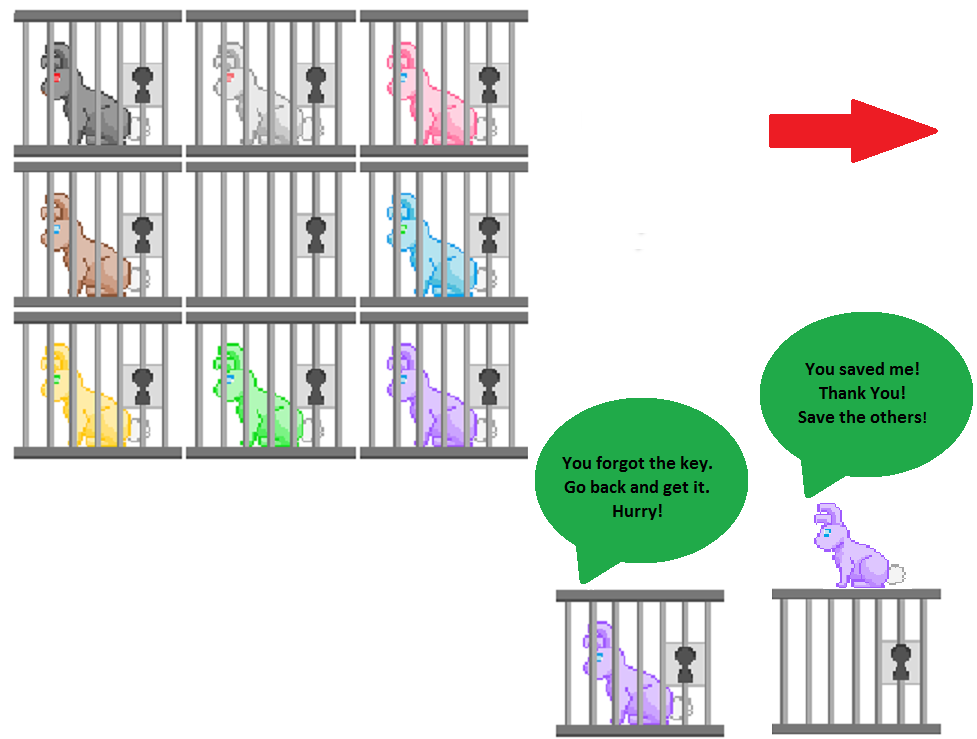
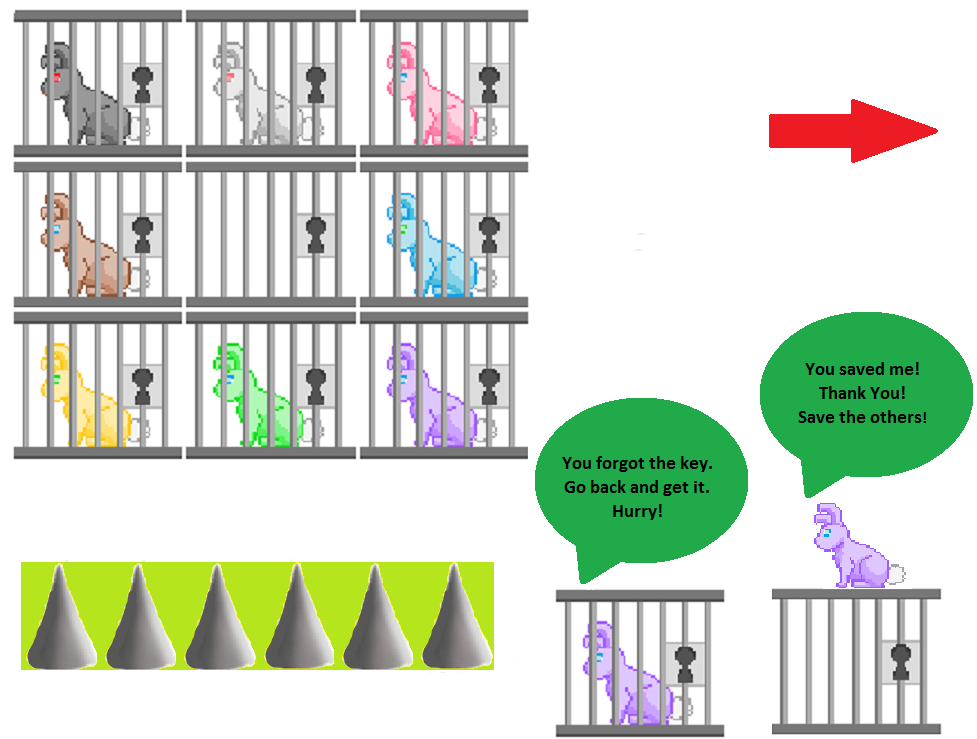
lost

Changed region(s): [[0.0, 0.747, 0.522, 0.9337]]

diff --git a/Main_Game.py b/Main_Game.py
@@ -7,6 +7,7 @@ from Level_1 import level_one
 from Level_2 import level_two
 import Constants
 import Level_2
+from Constants import game_over, BLACK
  
 
 # Define some colors 
@@ -69,7 +70,9 @@ def main():
     text6 = font.render("<-BACK", True, RED)
     text7 = font2.render("DIFFICULTY", True, RED)
     text11 = font2.render("Exit", True, RED)
-        
+    COLOR4 = RED
+    COLOR5 = RED
+    COLOR6 = RED   
    
     # cursor picture
     
@@ -106,7 +109,7 @@ def main():
     # Parent while loop
     while not really_done:
         
-        print(Constants.level)
+        
         # child loop containing loading screen!
         while screen_view == 0 and done == False:
             for event in pygame.event.get(): 
@@ -136,7 +139,7 @@ def main():
             clock.tick(frame_rate)            
             
         # child while loop, containing menu!
-        while screen_view == 1 and done == False:
+        while screen_view == 1 and done == False :
             for event in pygame.event.get(): 
                 if event.type == pygame.QUIT:
                     done = True 
@@ -144,26 +147,30 @@ def main():
                 # Do they hit the bottons and change mouse anamation
                 elif event.type == pygame.MOUSEBUTTONDOWN:                   
                     if mouse_x >= 399 and mouse_x <= 917 and mouse_y >= 325 and mouse_y <= 416:
-                        print("game") 
-                        while (Constants.level == 1):
+                        print("game")
+                         
+                        while (Constants.level == 1) and Constants.game_over == False:
                             level_one(color)
-                        while (Constants.level == 2):
+                           
+                            print(Constants.game_over)
+                            
+                        while (Constants.level == 2) and Constants.game_over == False:
                             Platform.platform_move_x = 0 
                             Caged_Bunny.Cage_move_x = 0 
                             Key.key_move_x = 0 
+                            print(Constants.game_over)
                             level_two(color)  
-                        while (Constants.level == 3):
+                           
+                            
+                        while (Constants.level == 3) and Constants.game_over == False:
                             Platform.platform_move_x = 0 
                             Caged_Bunny.Cage_move_x = 0 
                             Key.key_move_x = 0 
+                            print(Constants.game_over)
                             level_two(color)
-                        while(Constants.level == 4):
-                            pygame.quit()
-                    elif mouse_x >= 398 and mouse_x <= 649 and mouse_y >= 574 and mouse_y <= 666:
-                        print("got it load")
-                        color2 = WHITE 
-                        screen_view = 3
-                        (399, 575, 250, 91)
+                            
+
+                        
                     elif mouse_x >= 398 and mouse_x <= 889 and mouse_y >= 450 and mouse_y <= 541:
                         print("and again setting")
                         color3 = GREEN
@@ -181,7 +188,7 @@ def main():
             total_seconds = frame_count // frame_rate
             minutes = total_seconds // 60
             seconds = total_seconds % 60
-            print(seconds)
+            
             frame_count += 1
             # Creat Buttons
             screen.blit(title, [250, 100])            
@@ -206,51 +213,7 @@ def main():
             # Limit to 20 frames per second
             clock.tick(frame_rate)
 
-        # child while loop, containing load screen!
-        while screen_view == 3 and done == False:
-            for event in pygame.event.get(): 
-                if event.type == pygame.QUIT:
-                    done = True 
-                    really_done = True
-                elif event.type == pygame.MOUSEBUTTONDOWN:
-                    if mouse_x >= 99 and mouse_x <= 249 and mouse_y >= 349 and mouse_y <= 398:
-                        screen_view = 1
-                    elif mouse_x >= 1199 and mouse_x <= 1249 and mouse_y >= 649 and mouse_y <= 778:
-                        done = True
-                        really_done = True                 
-
-                # Creat Background
-                screen.fill(BLACK)
-                total_seconds = frame_count // frame_rate
-                minutes = total_seconds // 60
-                seconds = total_seconds % 60
-                print (seconds) 
-                frame_count += 1
-                # Creat Buttons
-                screen.blit(text5, [200, 300])
-                
-                screen.blit(text6, [100, 350])    
-                
-                # quit
-                screen.blit(text11, [1200, 650])
-                 
-                
-                # Change Mouse
-                
-                pos = pygame.mouse.get_pos()
-                mouse_x = pos[0]
-                mouse_y = pos[1] 
-                
-                pygame.display.update()
-                pygame.display.flip()
-            
-                # Limit to 20 frames per second
-                clock.tick(frame_rate) 
-                
-                
-        COLOR4 = RED
-        COLOR5 = RED
-        COLOR6 = RED                
+        
         # child while loop, containing setttings screen!
         while screen_view == 4 and done == False:
                 for event in pygame.event.get(): 
@@ -323,7 +286,7 @@ def main():
                     minutes = total_seconds // 60
                     seconds = total_seconds % 60
                     
-                    print (color)
+                    
                     frame_count += 1                   
                     # Creat Buttons
                     sitting_bunny_list.draw(screen)
@@ -353,11 +316,10 @@ def main():
                     # Limit to 20 frames per second
                     clock.tick(frame_rate)  
     
-
-    
+                    
     clock.tick(frame_rate)
     pygame.quit()    
             
-                
+                    
 if __name__ == "__main__":
     main()

diff --git a/Level_2.py b/Level_2.py
@@ -1,6 +1,6 @@
 import pygame 
 import random 
-
+from Player import Spikes
 from Player import Player
 from Player import Key
 from Player import Caged_Bunny
@@ -26,6 +26,7 @@ def level_two(color):
     platform_list = pygame.sprite.Group()
     active_sprite_list = pygame.sprite.Group()
     key_list = pygame.sprite.Group()
+    spike_list = pygame.sprite.Group()
     
     if color == "Blue":
         player_color = Player.blue_bunny
@@ -51,16 +52,17 @@ def level_two(color):
     platform3 = Platform(1800,230,1)
     platform6 = Platform(2400,400,1)
     
-    player2 = Player(25,400,platform_list,True,player_color, hight)
-    
+    player2 = Player(25,400,platform_list,True,player_color, hight,spike_list)
+    spike = Spikes(750,580)
+    spike2 = Spikes(740,560)
     caged_bunny = Caged_Bunny(3050,525,platform_list) 
     key = Key(key_x,key_y,player2.change_x)
-    spikes = pygame.image.load('spikes.png')
+    
     key_list.add(key)
     caged_bunny_list.add(caged_bunny)
     platform_list.add(platform_test, platform2, platform1,platform3,platform6)
-    active_sprite_list.add(caged_bunny,player2,platform_test,platform2,platform1,platform3,platform6,key)
-    
+    active_sprite_list.add(caged_bunny,player2,platform_test,platform2,platform1,platform3,platform6,key,spike)
+    spike_list.add(spike)
     background_x_change = 0 
     font2 = pygame.font.SysFont('Calibri', 30, True, False)
     text11 = font2.render("Exit",True,Constants.RED)
@@ -69,6 +71,7 @@ def level_two(color):
     done = False
     
     background_image = pygame.image.load("Forest Background2.png")
+    game_over_image = pygame.image.load("game over.png")
     background_x = -100
     
     while not done:
@@ -131,7 +134,7 @@ def level_two(color):
             if key_collected == False:
                 caged_bunny.get_the_key()
             
-        screen.blit(spikes,[30,30])  
+        
         
         if key_collected == False and player2.change_x > 0:
             Key.key_move_x += player2.change_x + 2
@@ -141,13 +144,14 @@ def level_two(color):
         if player2.change_x > 0:
             Platform.platform_move_x += player2.change_x + 2
             Caged_Bunny.Cage_move_x += player2.change_x + 2
-            
-            
+            spike.spike_move_x += player2.change_x + 2
+            spike2.spike_move_x += player2.change_x + 2
              
         elif player2.change_x < 0:
             Platform.platform_move_x += player2.change_x - 2
             Caged_Bunny.Cage_move_x += player2.change_x - 2
-            
+            spike.spike_move_x += player2.change_x - 2
+            spike2.spike_move_x += player2.change_x - 2
             
         Snake.snake_screen_adjust = player2.change_x 
         background_x += background_x_change 
@@ -155,12 +159,14 @@ def level_two(color):
         if player2.rect.x == width:
             Platform.platform_move_x += 3
         active_sprite_list.update()
-        active_sprite_list.draw(screen)    
+        active_sprite_list.draw(screen)  
+        if Constants.game_over == True:
+            screen.blit(game_over_image,[0,0])   
         if player2.rect.x >= 1300 and key_collected == True:
             Constants.level = 3 
             break   
         pygame.display.flip()
         clock.tick(60)
-    pygame.quit()
+
 if __name__ == "__main__":
     level_two("Purple")

diff --git a/Player.py b/Player.py
@@ -5,6 +5,29 @@ import random
 import Player
 #Player Colors
 
+class Spikes(pygame.sprite.Sprite):
+    spike = []
+    spike_move_x = 0
+    spike_move_y = 0 
+    def __init__(self, x,y):
+        self.x = x
+        self.y = y
+        
+        
+        super().__init__()
+ 
+        sprite_sheet = SpriteSheet("Caged Bunnies.png")
+        image = sprite_sheet.get_image(26, 562, 468, 108)
+        image.set_colorkey(Constants.GREENS)
+        self.spike.append(image)
+        
+        
+        self.image = self.spike[0]
+        self.rect = self.image.get_rect()
+    def update(self):
+        self.rect.x = self.x - self.spike_move_x
+        self.rect.y = self.y + self.spike_move_y
+    
 class Snake_limits(pygame.sprite.Sprite):
     limit_move = 0 
     snake_limit_list = []
@@ -41,8 +64,6 @@ class Snake(pygame.sprite.Sprite):
         self.x = x
         
         self.y = y
-        self.limit = Constants.snake_limit_one
-        self.limit2 = Constants.snake_limit_two
         super().__init__()
         sprite_sheet = SpriteSheet("Snakes.png")
         image = sprite_sheet.get_image(4, 1, 115, 82)
@@ -183,12 +204,13 @@ class Player(pygame.sprite.Sprite):
     level = None
 
     
-    def __init__(self,x,y,list_platform,grav,bunny_color,hight): 
+    def __init__(self,x,y,list_platform,grav,bunny_color,hight,spike_list): 
         self.height = hight
         self.grav = grav
         self.x = x
         self.y = y
         self.list = list_platform
+        self.spike_list = spike_list
 
         super().__init__()
         sprite_sheet = SpriteSheet("Rabbit_Sprite.png")
@@ -259,6 +281,17 @@ class Player(pygame.sprite.Sprite):
  
             # Stop our vertical movement
             self.change_y = 0
+        block_hit_list = pygame.sprite.spritecollide(self, self.spike_list, False)
+        for block in block_hit_list:
+            
+            self.change_x = 0
+           
+ 
+            # Stop our vertical movement
+            self.change_y = 0
+            
+            Constants.game_over = True
+        
 
         if self.rect.x <= 5:
             self.rect.x = 5    

diff --git a/Level_1.py b/Level_1.py
@@ -54,7 +54,7 @@ def level_one(color):
     platform3 = Platform(1600,430,1)
     platform6 = Platform(2400,250,1)
     
-    player = Player(25,400,platform_list,True,player_color, hight)
+    player = Player(25,400,platform_list,True,player_color, hight,spike_list=())
     snake = Snake(400,370)
     caged_bunny = Caged_Bunny(3050,525,platform_list) 
     key = Key(key_x,key_y,player.change_x)
@@ -144,24 +144,22 @@ def level_one(color):
         if player.change_x > 0:
             Platform.platform_move_x += player.change_x + 2
             Caged_Bunny.Cage_move_x += player.change_x + 2
-            Snake_limits.limit_move += player.change_x + 2
-            Constants.snake_limit_one += player.change_x + 2
-            Constants.snake_limit_two += player.change_x + 2
+            
+            
             snake.move_x += player.change_x + 2
              
         elif player.change_x < 0:
             Platform.platform_move_x += player.change_x - 2
             Caged_Bunny.Cage_move_x += player.change_x - 2
-            Snake_limits.limit_move += player.change_x - 2
-            Constants.snake_limit_one += player.change_x - 2
-            Constants.snake_limit_two += player.change_x - 2
-            snake.move_x += player.change_x - 2
+            
         background_x += background_x_change 
         
         if player.rect.x == width:
             Platform.platform_move_x += 3
         active_sprite_list.update()
-        active_sprite_list.draw(screen)    
+        active_sprite_list.draw(screen)  
+        if Constants.game_over == True:
+            break  
         if player.rect.x >= 1300 and key_collected == True:
             Constants.level = 2
             break

diff --git a/Constants.py b/Constants.py
@@ -7,6 +7,7 @@ WHITE    = ( 255, 255, 255)
 GREEN    = (   0, 255,   0)
 RED      = ( 255,   0,   0)
 BLUE     = (  16,  81, 148)
+GREENS = (181,230,29)
 PURPLE   = ( 163,  73, 164)
 YELLOW   = (255, 242, 0)
 GREEN    = (34, 177, 76)
@@ -16,9 +17,8 @@ CLOUD_100 = (104 ,0, 158, 49)
 GRASS_200 = (269, 0, 200, 40)
 GRASS_300 = (0, 55, 300, 40)
 GRASS_400 = (41, 113, 400, 40)
-
+game_over = False
 level = 1 
-snake_limit_one = 400
-snake_limit_two = 766
+
 width = 1366
 hight = 768
